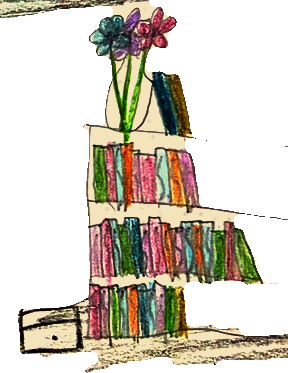
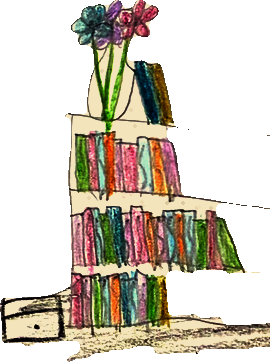
Draw Home as a dorm room with movable furniture
The girls' Home drawing (photo was upside down) replaces the placeholder.
The furniture labels are rubbed out, and the pet cage, chest, armchair,
cooler and spell book table can be moved with Rearrange. The art script
now cuts pieces in order so one piece never takes bits of another.

Claude-Session: https://claude.ai/code/session_01BBNJnnKDsoYXa5MRnbbGYn

diff --git a/index.html b/index.html
@@ -6,7 +6,7 @@
   <title>Witches and Wizards</title>
   <link rel="preconnect" href="https://fonts.googleapis.com">
   <link href="https://fonts.googleapis.com/css2?family=Grandstander:wght@400;700&display=swap" rel="stylesheet">
-  <link rel="stylesheet" href="css/style.css?v=4">
+  <link rel="stylesheet" href="css/style.css?v=5">
 </head>
 <body>
 
@@ -60,7 +60,7 @@
     <span class="status-item">Grade <b id="status-grade"></b></span>
     <span class="status-item" title="Adventure Points">Adventure <span id="status-points" class="stars"></span></span>
     <span class="status-item" title="Crystals">💎 <b id="status-crystals"></b></span>
-    <span class="status-item" title="Gems"><img class="gem-icon" src="art/processed/extra_gem.png?v=4" alt="Gems"> <b id="status-gems"></b></span>
+    <span class="status-item" title="Gems"><img class="gem-icon" src="art/processed/extra_gem.png?v=5" alt="Gems"> <b id="status-gems"></b></span>
     <button id="btn-backpack" class="small-button">🎒 Backpack</button>
     <button id="btn-cooler" class="small-button">🧊 Cooler</button>
   </header>
@@ -159,22 +159,22 @@
   <p id="placement-info" class="placement-info" hidden></p>
 
   <!-- Game content. Every data file adds to GAME_DATA. -->
-  <script>var GAME_DATA = {}; var GAME_VERSION = "4"; // tools/bump_version.py changes this and every ?v= so browsers load fresh files</script>
-  <script src="data/characters.js?v=4"></script>
-  <script src="data/places.js?v=4"></script>
-  <script src="data/paths.js?v=4"></script>
-  <script src="data/items.js?v=4"></script>
-  <script src="data/fish.js?v=4"></script>
-  <script src="data/furniture.js?v=4"></script>
-  <script src="data/furniture_art.js?v=4"></script>
-  <script src="data/drawn.js?v=4"></script>
+  <script>var GAME_DATA = {}; var GAME_VERSION = "5"; // tools/bump_version.py changes this and every ?v= so browsers load fresh files</script>
+  <script src="data/characters.js?v=5"></script>
+  <script src="data/places.js?v=5"></script>
+  <script src="data/paths.js?v=5"></script>
+  <script src="data/items.js?v=5"></script>
+  <script src="data/fish.js?v=5"></script>
+  <script src="data/furniture.js?v=5"></script>
+  <script src="data/furniture_art.js?v=5"></script>
+  <script src="data/drawn.js?v=5"></script>
 
   <!-- Game code -->
-  <script src="js/save.js?v=4"></script>
-  <script src="js/world.js?v=4"></script>
-  <script src="js/items.js?v=4"></script>
-  <script src="js/fishing.js?v=4"></script>
-  <script src="js/furniture.js?v=4"></script>
-  <script src="js/game.js?v=4"></script>
+  <script src="js/save.js?v=5"></script>
+  <script src="js/world.js?v=5"></script>
+  <script src="js/items.js?v=5"></script>
+  <script src="js/fishing.js?v=5"></script>
+  <script src="js/furniture.js?v=5"></script>
+  <script src="js/game.js?v=5"></script>
 </body>
 </html>

diff --git a/data/furniture.js b/data/furniture.js
@@ -8,14 +8,21 @@
 //   box    where it is in the drawing: [left, top, right, bottom] percentages.
 //          Make the box a little bigger than the piece; the script finds the
 //          exact outline. (Press P in the game to find the numbers.)
+//   min_part  optional: keep smaller loose bits too (like shadows); default 0.05
 GAME_DATA.furniture = [
-  { "place": "rec_room", "id": "snack_table", "name": "Snack Table",   "box": [8, 13, 36, 40] },
-  { "place": "rec_room", "id": "armchair",    "name": "Pink Armchair", "box": [67, 24, 92, 51] },
-  { "place": "rec_room", "id": "bookshelf",   "name": "Bookshelf",     "box": [79, 50, 97, 86] },
-  { "place": "rec_room", "id": "egg_chair",   "name": "Purple Chair",  "box": [57, 71, 69, 88] },
+  { "place": "rec_room", "id": "snack_table", "name": "Snack Table",  "box": [8, 13, 36, 40] },
+  { "place": "rec_room", "id": "armchair",   "name": "Pink Armchair", "box": [67, 24, 92, 51] },
+  { "place": "rec_room", "id": "bookshelf",  "name": "Bookshelf",    "box": [79, 50, 97, 86] },
+  { "place": "rec_room", "id": "egg_chair",  "name": "Purple Chair", "box": [57, 71, 69, 88] },
 
-  { "place": "cabin", "id": "table",     "name": "Little Table", "box": [7, 63, 22, 78] },
-  { "place": "cabin", "id": "stool",     "name": "Stool",        "box": [22, 69, 30, 78] },
-  { "place": "cabin", "id": "sofa",      "name": "Blue Sofa",    "box": [37, 55, 66, 75] },
-  { "place": "cabin", "id": "bookshelf", "name": "Bookshelf",    "box": [84, 57, 100, 76] }
+  { "place": "cabin", "id": "table",    "name": "Little Table", "box": [7, 63, 22, 78] },
+  { "place": "cabin", "id": "stool",    "name": "Stool",       "box": [22, 69, 30, 78] },
+  { "place": "cabin", "id": "sofa",     "name": "Blue Sofa",   "box": [37, 55, 66, 75] },
+  { "place": "cabin", "id": "bookshelf", "name": "Bookshelf",   "box": [84, 57, 100, 76] },
+
+  { "place": "home", "id": "pet_cage", "name": "Pet Cage", "box": [1.0, 37.1, 35.0, 70.0], "min_part": 0.002 },
+  { "place": "home", "id": "chest", "name": "Treasure Chest", "box": [78.0, 43.8, 100.0, 64.6], "min_part": 0.002 },
+  { "place": "home", "id": "armchair", "name": "Pink Armchair", "box": [64.0, 60.5, 84.5, 95.0], "min_part": 0.002 },
+  { "place": "home", "id": "cooler", "name": "Cooler and Pet Food", "box": [2.0, 74.5, 19.8, 90.0], "min_part": 0.002 },
+  { "place": "home", "id": "spellbook_table", "name": "Spell Book Table", "box": [19.6, 73.6, 42.0, 96.0], "min_part": 0.002 }
 ];

diff --git a/data/drawn.js b/data/drawn.js
@@ -1,2 +1,2 @@
 // Made by tools/process_art.py: the pictures that are real drawings, not placeholders.
-GAME_DATA.drawn = ["broom_snowball", "charmy", "extra_gem", "extra_winky_first", "fish_bubble", "fish_crystal", "fish_dream", "lisley", "map_mountain", "map_world", "pet_turtle", "place_cabin", "place_dock", "place_island", "place_rec_room", "place_shelf_brooms", "place_shelf_hats", "place_shelf_pets", "place_shelf_potions", "place_shelf_special", "place_shelf_wands", "place_shelves", "place_shelves_alt", "place_ski_reserve", "place_store", "potion_float", "rosy", "ski_size1", "ski_size2", "special_book", "treasure_sanddollar", "treasure_shell", "winky"];
+GAME_DATA.drawn = ["broom_snowball", "charmy", "extra_gem", "extra_winky_first", "fish_bubble", "fish_crystal", "fish_dream", "lisley", "map_mountain", "map_world", "pet_turtle", "place_cabin", "place_dock", "place_home", "place_island", "place_rec_room", "place_shelf_brooms", "place_shelf_hats", "place_shelf_pets", "place_shelf_potions", "place_shelf_special", "place_shelf_wands", "place_shelves", "place_shelves_alt", "place_ski_reserve", "place_store", "potion_float", "rosy", "ski_size1", "ski_size2", "special_book", "treasure_sanddollar", "treasure_shell", "winky"];

diff --git a/data/furniture_art.js b/data/furniture_art.js
@@ -1,3 +1,3 @@
 // Made by tools/process_art.py: where each cut-out piece of furniture sits
 // in its room's drawing, as [left, top, right, bottom] percentages.
-GAME_DATA.furnitureBoxes = {"cabin/table": [7.7, 66.5, 22.0, 76.1], "cabin/stool": [22.4, 70.7, 28.8, 77.6], "cabin/sofa": [38.0, 57.2, 65.1, 75.0], "cabin/bookshelf": [84.0, 57.6, 100.0, 74.0], "rec_room/snack_table": [8.0, 13.0, 36.0, 40.0], "rec_room/armchair": [67.7, 26.4, 91.0, 51.0], "rec_room/bookshelf": [79.0, 50.0, 97.0, 85.4], "rec_room/egg_chair": [58.2, 72.5, 69.0, 86.4]};
+GAME_DATA.furnitureBoxes = {"cabin/table": [7.7, 66.5, 22.0, 76.1], "cabin/stool": [22.4, 70.7, 28.8, 77.6], "cabin/sofa": [38.0, 57.2, 65.1, 75.0], "cabin/bookshelf": [84.0, 57.6, 100.0, 74.0], "home/pet_cage": [3.1, 39.0, 35.0, 70.0], "home/chest": [78.0, 45.9, 100.0, 64.6], "home/armchair": [64.5, 62.3, 83.4, 94.0], "home/cooler": [2.6, 75.3, 19.8, 90.0], "home/spellbook_table": [19.6, 73.6, 40.8, 92.8], "rec_room/snack_table": [8.0, 13.0, 36.0, 40.0], "rec_room/armchair": [67.7, 26.4, 91.0, 51.0], "rec_room/bookshelf": [80.1, 51.0, 97.0, 85.4], "rec_room/egg_chair": [58.2, 72.5, 69.0, 86.4]};

diff --git a/catalog.html b/catalog.html
@@ -160,14 +160,14 @@
     </div>
   </main>
 
-  <script>var GAME_DATA = {}; var GAME_VERSION = "4"; // tools/bump_version.py changes this and every ?v= so browsers load fresh files</script>
-  <script src="data/characters.js?v=4"></script>
-  <script src="data/places.js?v=4"></script>
-  <script src="data/items.js?v=4"></script>
-  <script src="data/ideas.js?v=4"></script>
-  <script src="data/fish.js?v=4"></script>
-  <script src="data/extras.js?v=4"></script>
-  <script src="data/drawn.js?v=4"></script>
+  <script>var GAME_DATA = {}; var GAME_VERSION = "5"; // tools/bump_version.py changes this and every ?v= so browsers load fresh files</script>
+  <script src="data/characters.js?v=5"></script>
+  <script src="data/places.js?v=5"></script>
+  <script src="data/items.js?v=5"></script>
+  <script src="data/ideas.js?v=5"></script>
+  <script src="data/fish.js?v=5"></script>
+  <script src="data/extras.js?v=5"></script>
+  <script src="data/drawn.js?v=5"></script>
   <script>
     // Builds the catalog straight from the game's data files, so it never goes out of date.
     const drawn = GAME_DATA.drawn || [];

diff --git a/tools/process_art.py b/tools/process_art.py
@@ -268,7 +268,9 @@ def cut_out_furniture(place_id, drawing, paper, pieces):
     for piece in pieces:
         l, t, r, b = piece["box"]
         box = (round(w * l / 100), round(h * t / 100), round(w * r / 100), round(h * b / 100))
-        part = drawing.crop(box)
+        # Cut from the room as it is so far, so a piece never takes bits of a
+        # piece listed before it (like a chest's shadow next to a chair).
+        part = empty.crop(box)
         mask = find_drawing(part, piece.get("min_part", 0.05), piece.get("gap", GAP_CLOSE))
         sticker = on_paper(part, paper.crop(box)).convert("RGBA")
         sticker.putalpha(mask)

diff --git a/CLAUDE.md b/CLAUDE.md
@@ -23,7 +23,7 @@ A family project: Scott drives, his two 9-year-old daughters make the art and de
 - Two kinds of money (Scott, 2026-10-10): Crystals (`price`, 💎) and Gems (`gems`, shown with the girls' gem drawing). Gems are rarer and earned by fishing. The girls write prices in gems on their drawings.
 - Fishing: `data/fish.js` (fish, their gems and `chance`, and the 5 to 25 second wait; past 20 seconds nothing is caught). Caught fish go in `player.cooler`, add to `player.fishCount` and earn their gems. Treasures (`GAME_DATA.treasures`, also in fish.js: shell, sand dollar) are caught the same way and earn gems but are not fish: they go in `player.treasures` and never add to `fishCount` (Scott, 2026-10-10; the count is for something later). Code in `js/fishing.js`.
 - The store holds only the girls' own items (Scott, 2026-10-10). Claude's suggestions go in `data/ideas.js`, which only the catalog loads ("Ideas" section); never add made-up items to `data/items.js`.
-- Movable furniture: `data/furniture.js` lists pieces per room with a rough box; the art script cuts each out (`furniture_<place>_<id>.png`), makes the empty room (`place_<id>_room.png`) and writes the exact boxes to `data/furniture_art.js` (generated). `js/furniture.js` does the 🪑 Rearrange button, dragging and no-overlap; positions save in `player.furniture`.
+- Movable furniture: `data/furniture.js` lists pieces per room with a rough box; the art script cuts each out (`furniture_<place>_<id>.png`), makes the empty room (`place_<id>_room.png`) and writes the exact boxes to `data/furniture_art.js` (generated). `js/furniture.js` does the 🪑 Rearrange button, dragging and no-overlap; positions save in `player.furniture`. Pieces are cut in list order and a piece never takes bits of one listed before it; `min_part` on a piece keeps small loose bits like shadows. Rooms with furniture: Rec Room, Toadstool Cottage, Home (dorm room; the girls' labels are erased, Scott 2026-10-10).
 - Drawings not used yet are listed in `data/extras.js` and shown in the catalog's "Saved for later" section.
 - `js/save.js` has `SAVE_VERSION`; bump it when the save's shape changes (old saves are then ignored).
 
